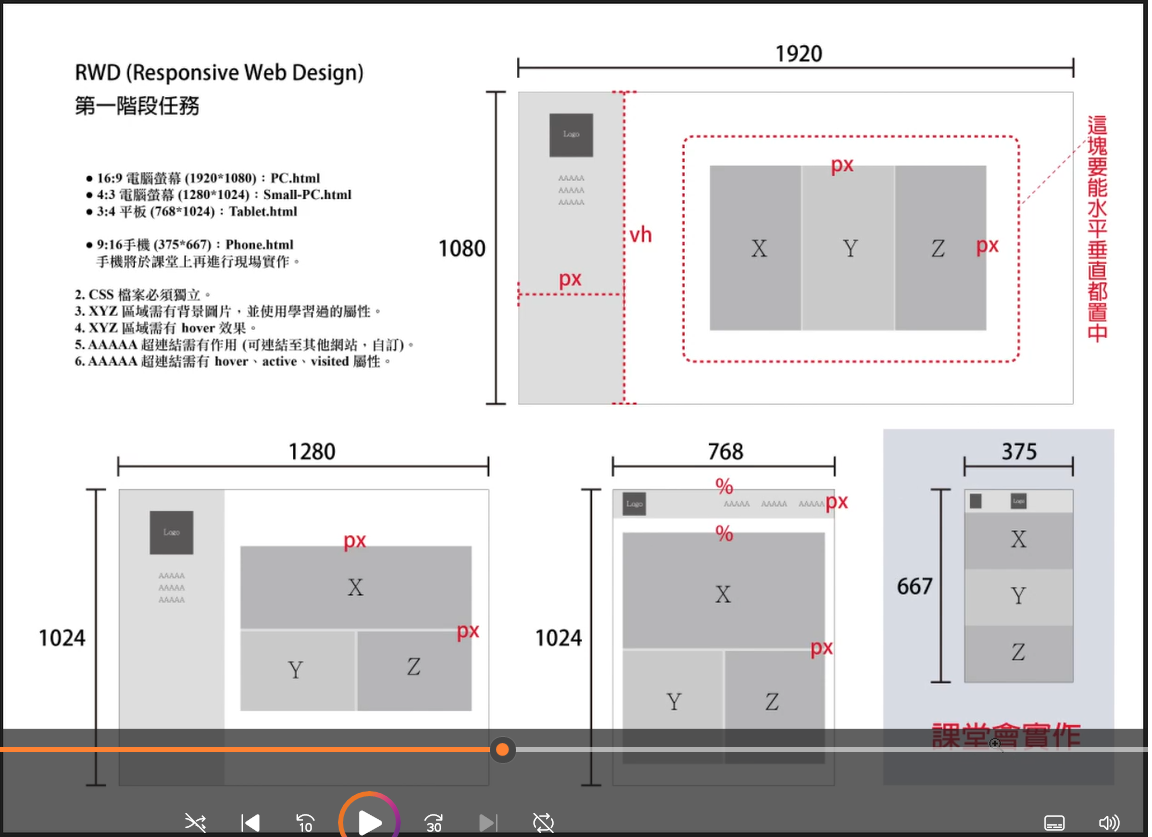
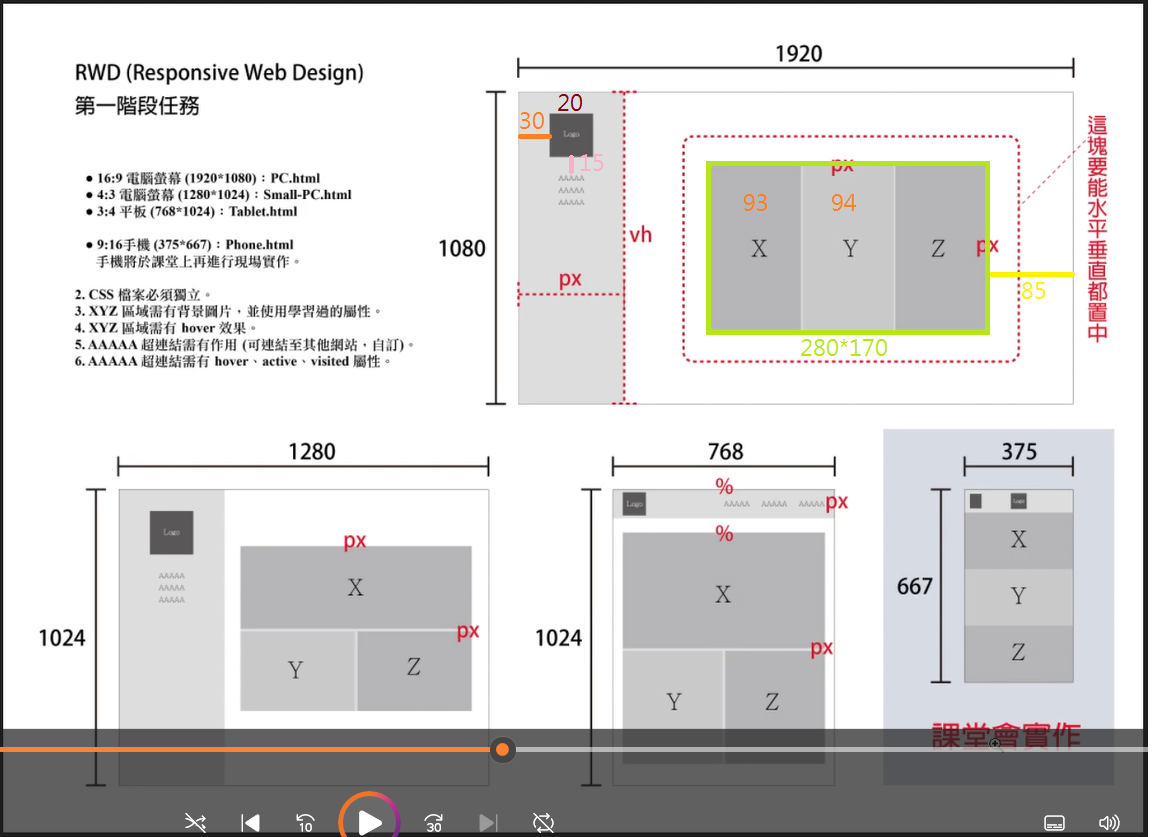
修改RWD四個板

Changed region(s): [[0.5938, 0.1864, 0.9375, 0.4349], [0.4375, 0.1243, 0.5, 0.1864], [0.5, 0.1864, 0.5312, 0.2174]]

diff --git a/05-RWD/css/style.css b/05-RWD/css/style.css
@@ -6,22 +6,23 @@
 }
 
 nav{
-    width: 20%;
-    height: 100vh;
-    padding: 30px;
+    /* width: 105px; */
+    width: 25%;
+    height: 1080px;
+    padding: 20px 30px;
     background-color: cadetblue;
     float: left;
 }
 
 .logo{
     margin: auto;
-    width: 150px;
-    height: 150px;
+    width: 45px;
+    height: 45px;
     background-color: darkblue;
 }
 
 .links{
-    padding: 30px 0px;
+    margin-top: 15px;
 }
 
 .links a:nth-child(2){
@@ -51,24 +52,25 @@ nav{
 }
 
 main{
-    width: 80%;
-    height: 100vh;
+    /* width: 1414px; */
+    width: 75%;
+    height: 1080px;
     background-color: blanchedalmond;
-    float: right;
+    float: left;
     position: relative;
 }
 
 main .container{
     width: 800px;
-    height: 55vh;
-    margin: auto;
-    background-color: #e63b3b;
-    
+    height: 600px;
+    position: absolute;
+    top: calc(50% - 300px);
+    left: calc(50% - 400px);
 }
 
 .X{
     width: 33%;
-    height: 55vh;
+    height: 600px;
     background-image: url(../img/jamon.jpg);
     background-size: cover;
     background-position: 50%;
@@ -78,7 +80,7 @@ main .container{
 
 .Y{
     width: 34%;
-    height: 55vh;
+    height: 600px;
     background-image: url(../img/granada.jpg);
     background-size: cover;
     background-position: 56%;
@@ -88,7 +90,7 @@ main .container{
 
 .Z{
     width: 33%;
-    height: 55vh;
+    height: 600px;
     background-image: url(../img/spanish-plaza.jpg);
     background-size: cover;
     background-position: 56%;
@@ -98,20 +100,22 @@ main .container{
 
 .X:hover, .Y:hover , .Z:hover{
     transform: scale(1.2);
+    transition: 2s;
 }
 
 @media (max-width:1281px) {
+
     main .container{
-        width: 80%;
-        height: 50%;
+        width: 500px;
+        height: 600px;
         position: absolute;
-        top: 10%;
-        left: 10%;
+        top: calc(50% - 300px);
+        left: calc(50% - 250px);
     }
     
     .X{
         width: 100%;
-        height: 28vh;
+        height: 300px;
         background-image: url(../img/jamon.jpg);
         background-size: cover;
         background-position: 50%;
@@ -121,7 +125,7 @@ main .container{
     
     .Y{
         width: 50%;
-        height: 27vh;
+        height: 300px;
         background-image: url(../img/granada.jpg);
         background-size: cover;
         background-position: 56%;
@@ -131,7 +135,7 @@ main .container{
     
     .Z{
         width: 50%;
-        height: 27vh;
+        height: 300px;
         background-image: url(../img/spanish-plaza.jpg);
         background-size: cover;
         background-position: 56%;
@@ -140,17 +144,13 @@ main .container{
     }
 }
 
-/* @media (max-width:769px) {
-    body{
-        width: 768px;
-        height: 1024px;
-    }
+@media (max-width:769px) {
 
     nav{
         width: 100%;
         height: 60px;
         position: fixed;
-        padding: 10px 20px;
+        padding: 10px 30px;
         z-index: 2;
     }
 
@@ -166,6 +166,7 @@ main .container{
         height: 30px;
         float: right;
         padding: 0px;
+        margin: 0px;
     }
 
     .links a{
@@ -176,20 +177,22 @@ main .container{
     }
 
     .links a:nth-child(2){
-        margin: 0px 10px;
+        margin: 0px 5px;
     }
 
     main{
-        width: 100%;
+        width: 768px;
         height: 964px;
         float: right;
         margin-top: 50px;
-        padding: 0px 20px;
     }
 
     main .container{
-        width: 80%;
-        height: 50%;
+        width: 100%;
+        height: 100%;
+        top: 0px;
+        left: 0px;
+        padding: 60px 0px;
     }
     
     .X{
@@ -221,9 +224,9 @@ main .container{
         background-repeat: no-repeat;
         float: left;
     }
-} */
+}
 
-@media (max-width:377px) {
+@media (max-width:376px) {
     nav{
         width: 100%;
         height: 80px;
@@ -240,6 +243,7 @@ main .container{
     nav .logo{
         width: 56px;
         height: 56px;
+        margin-top: 0px;
         position: absolute;
         background-color: darkblue;
         top: calc(50% - 28px);
@@ -250,10 +254,11 @@ main .container{
         width: 42px;
         height: 52px;
         background-color: #575757;
+        float: left;
     }
 
     nav .links:hover{
-        width: 150px;
+        width: 84px;
         height: 140px;
         padding-top: 20px;
     }
@@ -262,22 +267,23 @@ main .container{
     nav .links:hover a{
         display: block;
         margin: auto;
-        width: 100px;
+        padding: 0px;
+        width: 80px;
         height: 20px;
         text-align: center;
         margin-bottom: 20px;
-        font-size: 18px;
+        font-size: 16px;
         text-decoration: none;
         border-radius: 20px;
     }
 
-    nav a{
+    nav .links a{
         display: none;
     }
 
     nav a:hover{
         transform: scale(1.4);
-        background-color: gold;
+        /* background-color: gold; */
     }
 
     nav a:visited{
@@ -286,29 +292,30 @@ main .container{
 
     main{
         width: 100%;
+        height: calc(100% - 60px);
     }
 
     main .container{
         width: 100%;
-        padding: 0px 20px;
+        padding: 0px;
     }
 
     main .container div{
         width: 100%;
-        height: 196px;
+        height: 205.6px;
     }
 
     .X{
         background-image: url(../img/jamon.jpg);
         background-size: cover;
-        background-position: 10% 90%;
+        background-position: 40% 45%;
         background-repeat: no-repeat;
     }
 
     .Y{
         background-image: url(../img/granada.jpg);
         background-size: cover;
-        background-position: 10% 100%;
+        background-position: 50% 60%;
         background-repeat: no-repeat;
     }
 
